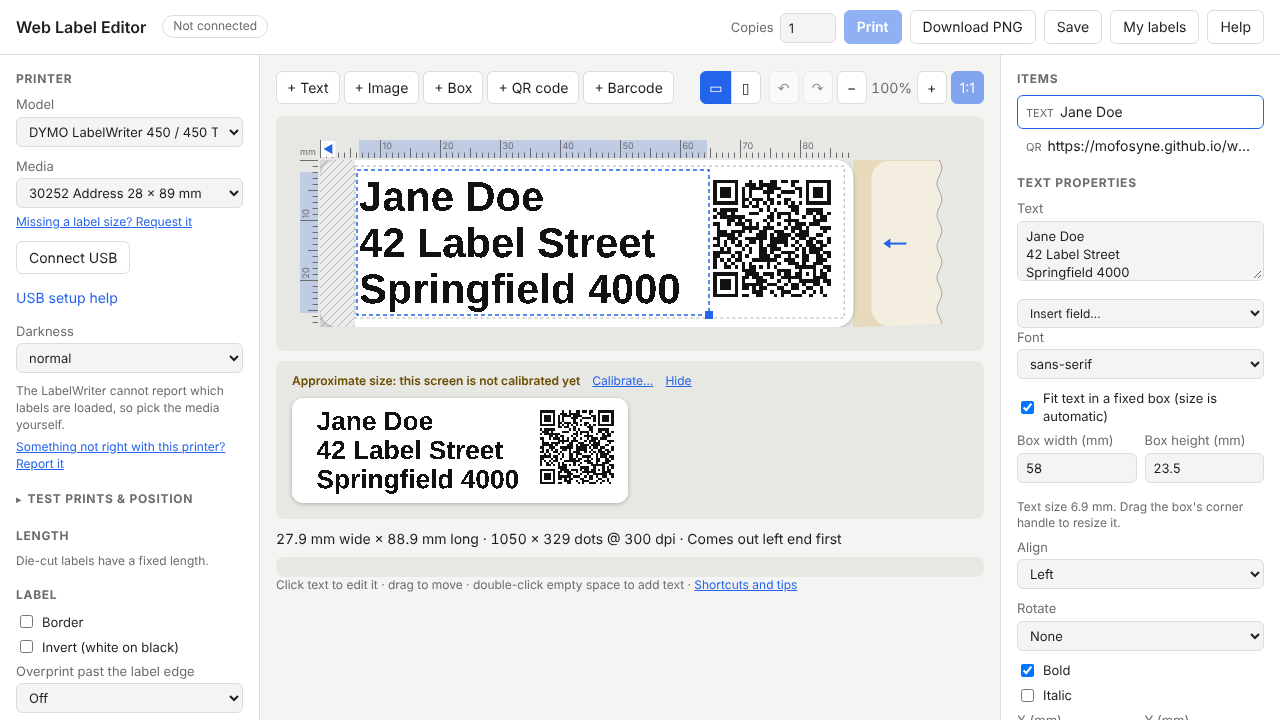
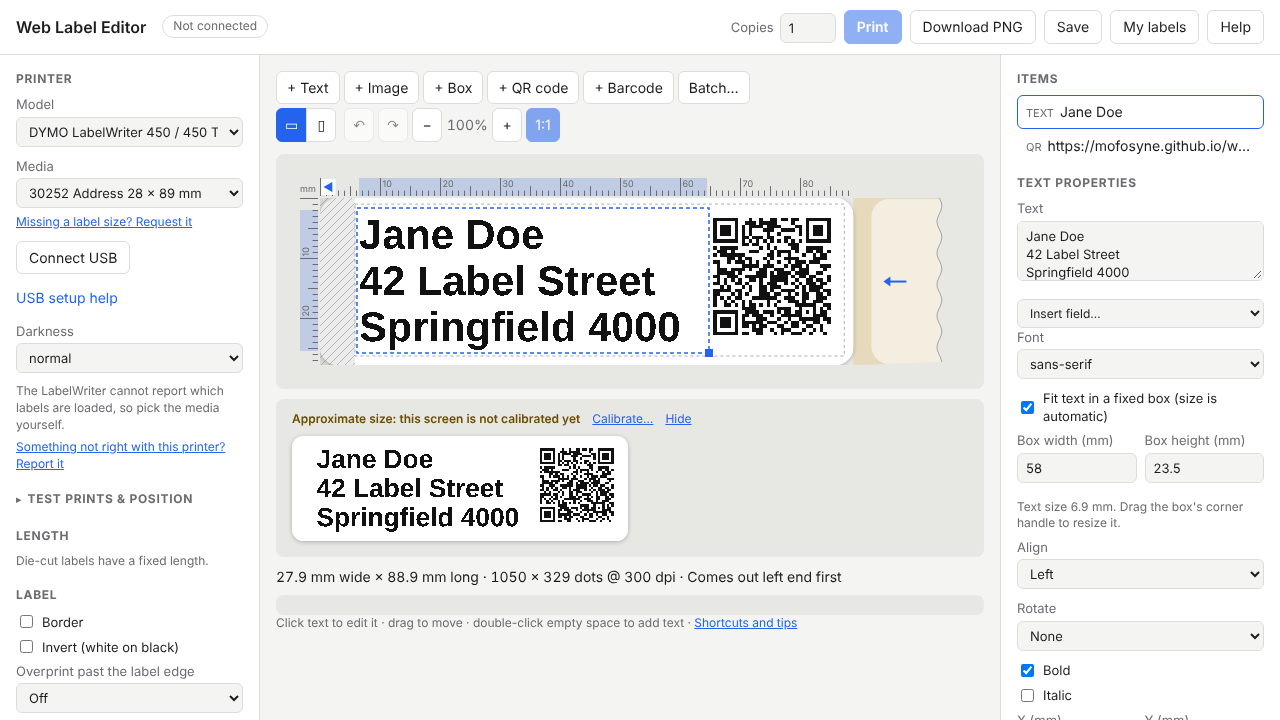
Batch: a toolbar button and a three-step panel
The batch feature was only reachable through Insert field in a text's
properties. Now Batch… in the toolbar opens a panel under the label in
three numbered steps: open a data file (optional), click the fields to put
on the label (one button per column, plus Counter, Date and Time), then
check each label and print. A field button goes in at the cursor while the
text is being edited on the label, else onto the selected item (replacing
the placeholder text), else as a new text. The panel opens by itself when
fields or data appear; × hides it.

Claude-Session: https://claude.ai/code/session_01YQFkThD3TEfZZoGyfdA6sY

diff --git a/src/app.js b/src/app.js
@@ -1528,8 +1528,9 @@ function loadDataFile(file) {
     previewAt = 0;
     undo.checkpoint();
     refresh({ setup: true, props: true });
-    showBanner(`${file.name}: ${rows.length} row${rows.length === 1 ? '' : 's'}, columns ${columns.join(', ')}. `
-      + 'Put a column on the label with Insert field in a text\'s properties; Print makes one label per row.');
+    batchOpen = true;
+    showBanner(`${file.name}: ${rows.length} row${rows.length === 1 ? '' : 's'}. Now click a column in step 2 of the `
+      + 'Batch panel to put it on the label.');
   }).catch((err) => showBanner(`Could not read ${file.name}: ${err.message}`));
 }
 
@@ -1538,11 +1539,44 @@ function loadDataFile(file) {
 // Rebuilt only when what it shows changes, so its inputs keep focus.
 let dataBarKey = '';
 let rowsOpen = false;
+// The Batch panel: opened with Batch…, or when fields appear; × hides it.
+let batchOpen = false;
+let hadFields = false;
+
+// Puts a field on the label: into the text being edited at its cursor, else
+// at the end of the selected text, QR code or barcode, else as a new text.
+const PLACEHOLDERS = ['Hello label', 'Text'];
+function insertField(field) {
+  if (editing) {
+    const { ta } = editing;
+    const [a, b] = [ta.selectionStart, ta.selectionEnd];
+    ta.setRangeText(field, a, b, 'end');
+    ta.dispatchEvent(new Event('input'));
+    return;
+  }
+  const item = selected();
+  const key = { text: 'text', qr: 'data', barcode: 'data' }[item?.type];
+  if (key) {
+    const text = String(item[key] ?? '');
+    // A placeholder ('Hello label', a new 'Text') is replaced, not added to.
+    if (item.type === 'text' && PLACEHOLDERS.includes(text)) item[key] = field;
+    else item[key] = item.type === 'text' && text && !/\s$/.test(text) ? `${text} ${field}` : text + field;
+  } else {
+    addText();
+    selected().text = field;
+  }
+  undo.checkpoint();
+  refresh({ props: true });
+}
 function updateDataBar() {
   const bar = $('data-bar');
-  const show = hasFields(design) || !!design.data;
+  // Opens by itself when fields or data first appear (typed, or a saved label).
+  const has = hasFields(design) || !!design.data;
+  if (has && !hadFields) batchOpen = true;
+  hadFields = has;
+  const show = batchOpen;
   const runs = show ? labelRuns(design, 1) : [];
-  const key = JSON.stringify([show, design.data?.name, design.data?.rows.length, design.data?.skip, previewAt,
+  const key = JSON.stringify([show, design.data?.name, design.data?.columns, design.data?.rows.length, design.data?.skip, previewAt,
     [...usedFields(design)], runs.length]);
   $('btn-print').textContent = $('btn-print').textContent === 'Printing…' ? 'Printing…' : printText();
   if (key === dataBarKey) return;
@@ -1561,31 +1595,29 @@ function updateDataBar() {
     return b;
   };
   const used = usedFields(design);
-  const lines = [];
   const data = design.data;
-  if (data) {
-    const chosen = chosenRows(design);
-    const rows = el('details', { className: 'data-rows', open: rowsOpen, ontoggle: () => { rowsOpen = rows.open; } },
-      el('summary', { textContent: `Choose rows (${chosen.length} of ${data.rows.length})` }),
-      dataTable());
-    lines.push(el('div', { className: 'row' },
+  const step = (n, title, ...body) => el('section', { className: 'batch-step' },
+    el('h3', {}, el('span', { className: 'num', textContent: n }), title), ...body);
+
+  // 1. Data, optional.
+  const one = data
+    ? step('1', 'Data', el('div', { className: 'row' },
       el('strong', { textContent: data.name ?? 'Data' }),
-      el('span', { className: 'muted', textContent: `${data.rows.length} rows · ${data.columns.join(', ')}` }),
+      el('span', { className: 'muted', textContent: `${data.rows.length} rows · columns ${data.columns.join(', ')}` }),
       button('Replace…', () => $('data-file').click()),
-      button('Remove', () => { delete design.data; previewAt = 0; undo.checkpoint(); refresh({ setup: true, props: true }); })));
-    if (!usesData(design)) {
-      lines.push(el('p', { className: 'note', textContent: 'No column is on the label yet: select a text, QR code or barcode and use Insert field.' }));
-    } else lines.push(rows);
-  }
-  if (usesData(design) || used.has(COUNTER)) {
-    const step = (d) => { previewAt += d; undo.checkpoint(); refresh(); };
-    const nav = el('div', { className: 'row' },
-      el('span', { textContent: 'Showing' }),
-      button('◀', () => step(-1), { className: 'icon', disabled: previewAt <= 0, ariaLabel: 'Previous label' }),
-      el('span', { textContent: `label ${previewAt + 1} of ${runs.length}` }),
-      button('▶', () => step(1), { className: 'icon', disabled: previewAt >= runs.length - 1, ariaLabel: 'Next label' }));
-    if (runs.length > 1) lines.push(nav);
-  }
+      button('Remove', () => { delete design.data; previewAt = 0; undo.checkpoint(); refresh({ setup: true, props: true }); })))
+    : step('1', 'Data (optional)', el('div', { className: 'row' },
+      button('Open data file…', () => $('data-file').click(), { className: 'primary' }),
+      el('span', { className: 'muted', textContent: 'A CSV, Markdown table, JSON or recfile; each row becomes a label. '
+        + 'Skip this to number or date labels.' })));
+
+  // 2. Fields on the label: one click each.
+  const chip = (text, field, title) => {
+    const b = button(text, () => insertField(field), { className: 'chip', title });
+    b.onmousedown = (e) => e.preventDefault(); // keep the text being edited open
+    return b;
+  };
+  const counter = [];
   if (used.has(COUNTER)) {
     const c = design.counter ?? {};
     const num = (label, k, def, min) => {
@@ -1596,15 +1628,51 @@ function updateDataBar() {
       };
       return el('label', { className: 'inline' }, `${label} `, input);
     };
-    lines.push(el('div', { className: 'row counter' },
-      el('span', { textContent: 'Counter {n}:' }), num('start', 'start', 1), num('step', 'step', 1), num('digits', 'digits', 0, 0)));
+    counter.push(el('div', { className: 'row counter' },
+      el('span', { textContent: 'Counter:' }), num('start', 'start', 1), num('step', 'step', 1), num('digits', 'digits', 0, 0)));
+  }
+  const two = step('2', 'Put fields on the label',
+    el('div', { className: 'row' },
+      ...(data?.columns ?? []).map((c) => chip(c, `{${c}}`, `Each label shows its row's ${c}`)),
+      chip('Counter', '{n}', 'A number that goes up on each label: 1, 2, 3…'),
+      chip('Date', '{date}', 'The date of printing'),
+      chip('Time', '{time}', 'The time of printing')),
+    el('p', { className: 'note', textContent: 'Click one to add it to the selected text (at the cursor while you edit '
+      + 'it on the label), or as a new text. You can also type it in braces, e.g. '
+      + `${data?.columns[0] ? `{${data.columns[0]}}` : '{n}'}, in any text, QR code or barcode.` }),
+    ...counter);
+
+  // 3. Check each label, choose rows, print.
+  const check = [];
+  if (runs.length > 1) {
+    const go = (d) => { previewAt += d; undo.checkpoint(); refresh(); };
+    check.push(el('div', { className: 'row' },
+      button('◀', () => go(-1), { className: 'icon', disabled: previewAt <= 0, ariaLabel: 'Previous label' }),
+      el('span', { textContent: `Showing label ${previewAt + 1} of ${runs.length}` }),
+      button('▶', () => go(1), { className: 'icon', disabled: previewAt >= runs.length - 1, ariaLabel: 'Next label' })));
+  }
+  if (data && usesData(design)) {
+    const chosen = chosenRows(design);
+    const rows = el('details', { className: 'data-rows', open: rowsOpen, ontoggle: () => { rowsOpen = rows.open; } },
+      el('summary', { textContent: `Choose rows (${chosen.length} of ${data.rows.length})` }),
+      dataTable());
+    check.push(rows);
   }
   const copies = Math.max(1, parseInt($('copies').value, 10) || 1);
   const total = labelRuns(design, copies).length;
-  lines.push(el('p', { className: 'note', textContent: usesData(design)
-    ? `Print makes ${total} label${total === 1 ? '' : 's'}: one per chosen row${copies > 1 ? `, ${copies} copies each` : ''}.`
-    : used.has(COUNTER) ? `Print makes ${total} label${total === 1 ? '' : 's'} (Copies), numbered in turn; the next print carries on from there.`
-      : '{date} and {time} are filled in when you print.' }));
+  check.push(el('p', { className: 'note', textContent: !hasFields(design)
+    ? 'Nothing on the label changes yet: add a field in step 2.'
+    : usesData(design)
+      ? `Print makes ${total} label${total === 1 ? '' : 's'}: one per chosen row${copies > 1 ? `, ${copies} copies each` : ''}.`
+      : used.has(COUNTER)
+        ? `Print makes ${total} label${total === 1 ? '' : 's'} (set by Copies), numbered in turn; the next print carries on from there.`
+        : data ? 'Add a column in step 2 to print one label per row. Date and time are filled in when you print.'
+          : 'Date and time are filled in when you print.' }));
+  const three = step('3', 'Check each label, then print', ...check);
+
+  const close = button('×', () => { batchOpen = false; dataBarKey = ''; refresh(); },
+    { className: 'close', ariaLabel: 'Close', title: hasFields(design) || data ? 'Hide (the fields stay on the label; Batch… shows it again)' : 'Close' });
+  const lines = [el('header', {}, el('h2', { textContent: 'Batch: labels from data, numbered or dated' }), close), one, two, three];
   bar.replaceChildren(...lines);
 }
 
@@ -2628,6 +2696,12 @@ function wire() {
   $('image-file').onchange = (e) => {
     if (e.target.files[0]) addImage(e.target.files[0]);
     e.target.value = '';
+  };
+  $('btn-batch').onclick = () => {
+    batchOpen = $('data-bar').hidden;
+    dataBarKey = '';
+    refresh();
+    if (batchOpen) $('data-bar').scrollIntoView({ block: 'nearest', behavior: 'smooth' });
   };
   $('data-file').onchange = (e) => {
     if (e.target.files[0]) loadDataFile(e.target.files[0]);

diff --git a/src/about.js b/src/about.js
@@ -135,11 +135,13 @@ function tips() {
       li(b('Rulers'), ' measure from the label\'s starting edge and from each label\'s top, and mark the selected item.')),
     el('h3', { textContent: 'Batches: data, numbers and dates' }),
     el('ul', {},
-      li('Type a field in braces in any text, QR code or barcode, or pick it from ', b('Insert field'), ' under its '
-        + 'content: ', b('{n}'), ' is a counter, ', b('{date}'), ' and ', b('{time}'), ' are when you print.'),
-      li(b('Data from a file'), ' (Insert field → Data from a file): a CSV, the first Markdown table in a file, JSON (a '
-        + 'list of records) or a GNU recfile. Its column names become fields, e.g. ', b('{Name}'), '; Print makes one '
-        + 'label per row (times Copies).'),
+      li(b('Batch…'), ' in the toolbar opens the Batch panel under the label, in three steps: open a data file '
+        + '(optional), click the fields to put on the label, then check each label and print.'),
+      li(b('Data files'), ': a CSV, the first Markdown table in a file, JSON (a list of records) or a GNU recfile. '
+        + 'Its column names become fields, e.g. ', b('{Name}'), '; Print makes one label per row (times Copies).'),
+      li('Fields are just text in braces, so you can also type them in any text, QR code or barcode (or use ',
+        b('Insert field'), ' under its content): ', b('{n}'), ' is a counter, ', b('{date}'), ' and ', b('{time}'),
+        ' are when you print.'),
       li('The bar under the label steps through the labels (◀ ▶) so you can check each one fits, and ',
         b('Choose rows'), ' picks which rows print; click a row to show it.'),
       li('The counter has a start, a step and a number of digits (3 digits: 001, 002…). After a print it carries on '

diff --git a/style.css b/style.css
@@ -348,7 +348,14 @@ a.small-link { display: block; font-size: 12px; color: var(--accent); margin: -4
 #report-printer { color: var(--accent); }
 
 /* Data rows, counter and date: under the editor while the design has fields. */
-.data-bar { margin: 8px 0 0; padding: 10px 12px; background: var(--stage); border-radius: 8px; font-size: 13px; display: grid; gap: 6px; }
+.data-bar { margin: 8px 0 0; padding: 10px 12px; background: var(--stage); border-radius: 8px; font-size: 13px; display: grid; gap: 10px; }
+.data-bar header { display: flex; align-items: center; justify-content: space-between; }
+.data-bar h2 { margin: 0; font-size: 13px; }
+.data-bar h3 { margin: 0 0 6px; font-size: 13px; font-weight: 600; display: flex; align-items: center; gap: 6px; }
+.data-bar h3 .num { display: inline-grid; place-items: center; width: 18px; height: 18px; border-radius: 50%; background: var(--accent); color: var(--accent-text); font-size: 11px; }
+.data-bar .batch-step { display: grid; gap: 6px; }
+.data-bar .chip { border-radius: 999px; padding: 3px 12px; font-size: 13px; }
+.data-bar .close { padding: 0 8px; }
 .data-bar .row { display: flex; flex-wrap: wrap; gap: 8px; align-items: center; }
 .data-bar .muted { color: var(--muted); overflow-wrap: anywhere; }
 .data-bar .note { margin: 0; }

diff --git a/index.html b/index.html
@@ -95,6 +95,7 @@
         <button id="add-box">+ Box</button>
         <button id="add-qr">+ QR code</button>
         <button id="add-barcode">+ Barcode</button>
+        <button id="btn-batch" title="Print a batch: one label per row of a spreadsheet or list, numbered or dated">Batch…</button>
         <input id="image-file" type="file" accept="image/*" hidden>
         <span class="spacer"></span>
         <span class="tools">

diff --git a/README.md b/README.md
@@ -198,8 +198,9 @@ The app has its own welcome page and **Help** with the same information.
   from other apps); Ctrl+D duplicates; arrow keys nudge; Ctrl+Z / Ctrl+Shift+Z
   (or Ctrl+Y) undo and redo, with a drag or a burst of typing as one step.
 - **Batches from data, numbering and dates:** put `{Name}` (a column),
-  `{n}` (a counter) or `{date}` / `{time}` in any text, QR code or barcode,
-  or pick one from *Insert field*. Data comes from a CSV, a Markdown table,
+  `{n}` (a counter) or `{date}` / `{time}` in any text, QR code or barcode.
+  The *Batch…* button walks through it: open a data file, click the fields
+  to put on the label, check each label, print. Data comes from a CSV, a Markdown table,
   JSON or a GNU recfile; Print makes one label per chosen row, as one job
   where the printer allows. Step through the labels before printing to check
   each one fits; the counter carries on from where the last print stopped.
